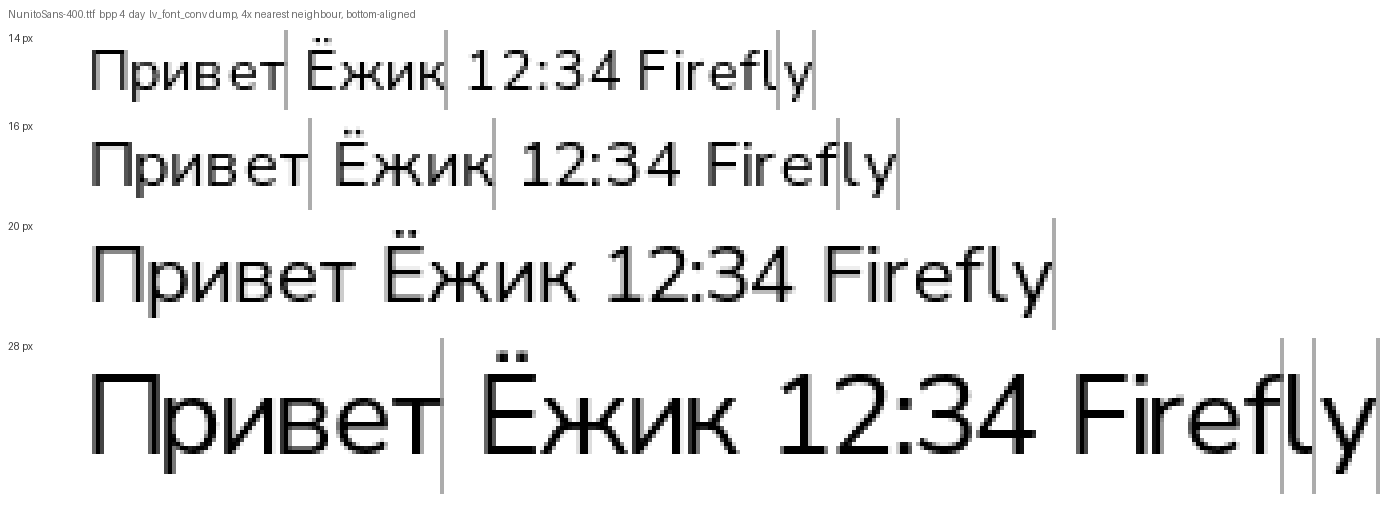
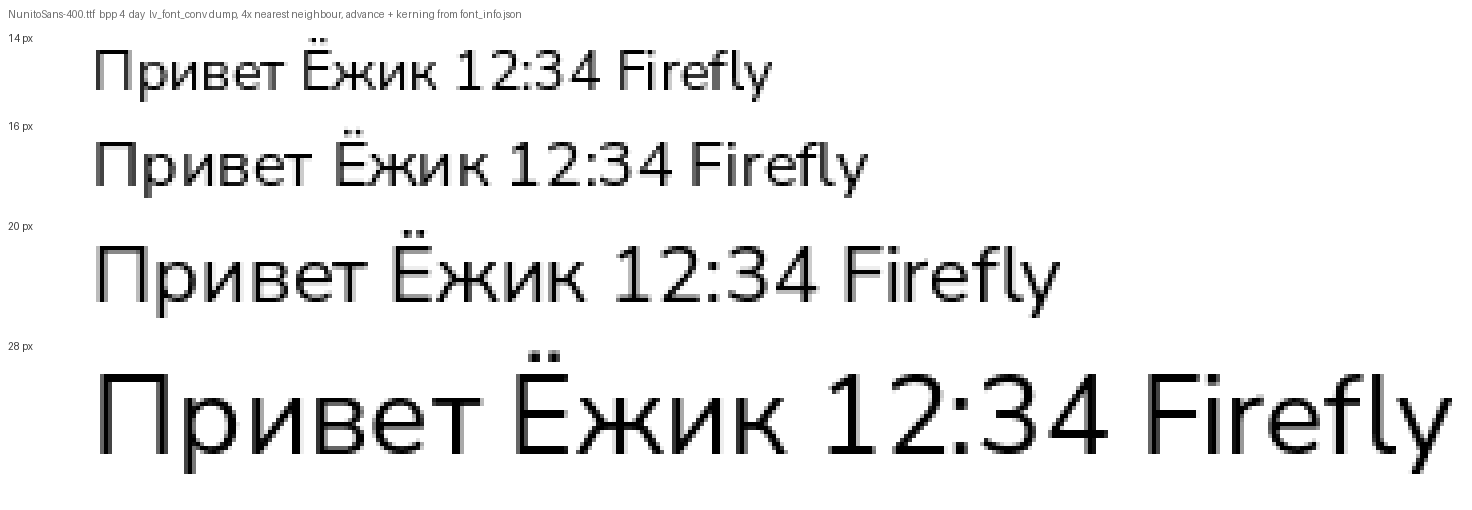
The bars in the specimens were the tool's ruler, not the font
Four contact sheets went into T-032 with vertical grey bars through them.
They are not in either font. lv_font_conv's dump writer colours every pixel
outside the advance width pink -- (255, 127, 184) -- so a glyph whose ink
overhangs its advance carries a full-height pink column, and reading the PNG
with convert("L") turns that annotation into mid-grey ink. Nunito Sans has
four such glyphs in one test string.

Both dump colours have red = 255, so the red channel is exactly 255 - coverage
for every pixel. Reading it drops the annotation and touches no coverage.

While the layout was wrong anyway: the dump crops each PNG to the ink bounding
box, so butting tiles together with a 1 px gap threw away the side bearings and
showed spacing the firmware will never draw. The sheets now advance by the real
advance width, apply the real kerning, and sit on the dump's own baseline --
all read from the font_info.json written beside the images.

That produced a number D16 needs and the byte counts do not carry: at the same
--size, Nunito Sans wants 2-4 px more line height than Inter and draws a
slightly smaller letter. The two families are not comparable at equal size.

All four sheets regenerated and looked at, day and night, this time before
committing rather than after.

diff --git a/tools/font/contact_sheet.py b/tools/font/contact_sheet.py
@@ -4,7 +4,9 @@ Final section 51 asks for legibility verified "at actual pixel sizes". A font
 specimen from a foundry is rendered by a desktop rasteriser at a size nobody
 ships; what reaches the wrist is lv_font_conv's own 1/2/4-bpp bitmap. So this
 uses lv_font_conv's `dump` format -- the same rasterisation the firmware gets --
-and tiles it into one image a person can look at.
+and lays it out with the same metrics the firmware will: advance width, left
+side bearing and kerning, all read from the `font_info.json` the dump writes
+beside the images.
 
 Nearest-neighbour zoom, never smooth: the question is what the pixels are, and
 a smoothing filter answers a different one.
@@ -13,7 +15,7 @@ Usage:
   python3 tools/font/contact_sheet.py --font F.ttf --lv-font-conv PATH \\
       --sizes 14,16,20 --bpp 4 --text "Привет Firefly 12:34" --out sheet.png
 """
-import argparse, os, subprocess, tempfile
+import argparse, json, math, os, subprocess, tempfile
 from PIL import Image, ImageChops, ImageDraw
 
 ZOOM = 4
@@ -31,40 +33,85 @@ def dump_glyphs(conv, font, size, bpp, text, workdir):
     return out
 
 
-def row_for(conv, font, size, bpp, text, workdir):
-    """One rendered line of `text`, laid out in codepoint order of the string."""
-    d = dump_glyphs(conv, font, size, bpp, text, workdir)
-    tiles = []
-    for ch in text:
-        if ch == " ":
-            tiles.append(None)
-            continue
-        # lv_font_conv names the dump files by lowercase hex codepoint, no
-        # padding and no "U+" -- 41f.png, not U+041F.png.
-        path = os.path.join(d, f"{ord(ch):x}.png")
-        if not os.path.exists(path):
-            raise RuntimeError(f"no glyph rendered for U+{ord(ch):04X} {ch!r} at {size} px")
-        # The dump PNGs are RGBA with a constant-255 alpha and the coverage in
-        # the colour channels, so the alpha channel is not the glyph -- reading
-        # it gives solid rectangles. Luminance is the glyph.
-        tiles.append(Image.open(path).convert("L"))
+def coverage(path):
+    """The glyph's ink as 8-bit ink-on-paper, with the dump's annotation removed.
 
-    space = max(2, size // 3)
-    width = sum(space if t is None else t.width + 1 for t in tiles)
-    height = max(t.height for t in tiles if t is not None)
-    # 255, not 0: the dump is dark ink on light paper, so the gaps between
-    # words have to be paper too. Filling with 0 leaves black gaps that turn
-    # into bright bars the moment the night sheet inverts the row.
-    row = Image.new("L", (max(width, 1), height), 255)
-    x = 0
-    for t in tiles:
-        if t is None:
-            x += space
+    lv_font_conv's dump writer (lib/writers/dump.js) stores each pixel as
+    `(255 - value) * colour / 255`, where `colour` is white inside the advance
+    width and the typo ascent/descent band, and PINK -- (255, 127, 184) -- for
+    every pixel outside it. A glyph whose bounding box overhangs its advance
+    therefore gets a full-height pink column, and `convert("L")` reads that
+    column as mid-grey ink: a bar through the specimen that is not in the font.
+
+    Both colours have red = 255, so the red channel is exactly `255 - value`
+    for every pixel of every glyph. Take it, and the annotation disappears
+    without touching a single pixel of coverage.
+    """
+    return Image.open(path).convert("RGB").split()[0]
+
+
+def row_for(conv, font, size, bpp, text, workdir):
+    """One line of `text`, laid out the way LVGL will lay it out.
+
+    Not a row of tiles with a gap between them. The dump crops each PNG to the
+    ink bounding box, so pasting them end to end throws away the side bearings
+    and reports spacing the firmware will never draw -- and letter spacing is
+    half of whether 14 px Cyrillic is readable at all. Advance width, left side
+    bearing and kerning all come out of font_info.json.
+    """
+    d = dump_glyphs(conv, font, size, bpp, text, workdir)
+    info = json.load(open(os.path.join(d, "font_info.json"), encoding="utf-8"))
+    glyphs = {g["code"]: g for g in info["glyphs"]}
+    typo_asc, typo_desc = info["typoAscent"], info["typoDescent"]
+
+    # The dump's PNG spans y = max(bbox top, typoAscent) down to
+    # y = min(bbox bottom, typoDescent), so every glyph inside the typo band is
+    # already the same height and aligned on the same baseline. Glyphs that
+    # exceed it -- an accented capital at a small size -- make the row taller,
+    # which is why the extent is computed rather than assumed.
+    top = typo_asc
+    bottom = typo_desc
+    for ch in text:
+        g = glyphs.get(ord(ch))
+        if g is None or g["bbox"]["width"] == 0:
             continue
-        # Bottom-align: the dump has no baseline, so this is a legibility
-        # sheet and not a metrics proof. It says so on the image.
-        row.paste(t, (x, height - t.height))
-        x += t.width + 1
+        b = g["bbox"]
+        top = max(top, b["y"] + b["height"] - 1)
+        bottom = min(bottom, b["y"])
+    height = top - bottom + 1
+
+    placed = []          # (x, y, tile)
+    pen = 0.0            # fractional, because adv_w is fractional in the font
+    for i, ch in enumerate(text):
+        g = glyphs.get(ord(ch))
+        if g is None:
+            raise RuntimeError(f"no glyph rendered for U+{ord(ch):04X} {ch!r} at {size} px")
+        b = g["bbox"]
+        if b["width"] > 0:
+            path = os.path.join(d, f"{ord(ch):x}.png")
+            if not os.path.exists(path):
+                raise RuntimeError(f"font_info has U+{ord(ch):04X} but {path} is missing")
+            tile = coverage(path)
+            glyph_top = max(b["y"] + b["height"] - 1, typo_asc)
+            placed.append((int(round(pen)) + b["x"], top - glyph_top, tile))
+        pen += g["advanceWidth"]
+        if i + 1 < len(text):
+            # Kerning is keyed by the *next* codepoint, in pixels, and it is
+            # fractional. LVGL applies it; a specimen that does not is a
+            # specimen of a font nobody ships.
+            pen += g.get("kerning", {}).get(str(ord(text[i + 1])), 0.0)
+
+    width = max([math.ceil(pen)] + [x + t.width for x, _y, t in placed] + [1])
+    # 255, not 0: the dump is dark ink on light paper, so the space between
+    # words has to be paper too. Filling with 0 leaves black gaps that turn
+    # into bright bars the moment the night sheet inverts the row.
+    row = Image.new("L", (width, height), 255)
+    for x, y, tile in placed:
+        # Darken rather than paste: side bearings can be negative and two
+        # glyphs can legitimately overlap, and a paste would rub out the ink
+        # of the one underneath.
+        box = (x, y, x + tile.width, y + tile.height)
+        row.paste(ImageChops.darker(row.crop(box), tile), box)
     return row
 
 
@@ -90,14 +137,18 @@ def main():
     # stroke that survives one does not automatically survive the other.
     if a.theme == "night":
         rows = [(s, ImageChops.invert(r)) for s, r in rows]
-    paper, label, sub = (255, 60, 110) if a.theme == "day" else (16, 200, 150)
+    # Night paper is 0, not a dark grey: the row itself inverts to 0, and a
+    # page one shade off it would frame every line in a rectangle that is an
+    # artefact of this script rather than anything the panel does.
+    paper, label, sub = (255, 60, 110) if a.theme == "day" else (0, 190, 140)
 
     W = LABEL_W + PAD * 2 + max(r.width for _s, r in rows) * ZOOM
     H = PAD * 2 + sum(r.height * ZOOM + PAD for _s, r in rows) + 22
     sheet = Image.new("L", (W, H), paper)
     draw = ImageDraw.Draw(sheet)
     draw.text((PAD, PAD), f"{os.path.basename(a.font)}  bpp {a.bpp}  {a.theme}  "
-                          f"lv_font_conv dump, {ZOOM}x nearest neighbour, bottom-aligned", fill=sub)
+                          f"lv_font_conv dump, {ZOOM}x nearest neighbour, "
+                          f"advance + kerning from font_info.json", fill=sub)
 
     y = PAD + 22
     for size, row in rows:

diff --git a/docs/research/FONT_MEASUREMENTS.md b/docs/research/FONT_MEASUREMENTS.md
@@ -60,7 +60,7 @@ arguably icons — rotatable, scalable, owned by the image pipeline (T-034) —
 rather than text glyphs. But it is a decision, not an oversight, and it belongs
 to whoever picks the font.
 
-## Two traps found by running the pipeline rather than reading about it
+## Three traps found by running the pipeline rather than reading about it
 
 ### 1. The default instance is not the weight you think
 
@@ -101,6 +101,28 @@ when the requested location is already the default**, and says so out loud.
 Note also that Nunito Sans's kerning is a **fixed 5 236 bytes at every size** —
 at 14 px bpp 1 that is 64 % of the entire font (8 225 B with, 2 989 B without).
 Kerning is not a rounding error in an embedded font; it is a budget line.
+
+### 3. The dump's luminance is not the glyph's coverage
+
+`lv_font_conv --format dump` writes one PNG per glyph, and those PNGs are the
+only way to see what the firmware will actually draw. They are not plain
+greyscale. `lib/writers/dump.js` stores every pixel as
+`(255 - value) * colour / 255`, where `colour` is white inside the advance width
+and the typo ascent/descent band and **pink — (255, 127, 184) — outside it**.
+
+A glyph whose ink overhangs its advance therefore carries a full-height pink
+column. Read the file with `convert("L")` and that column becomes mid-grey ink:
+a vertical bar down the specimen that exists in no font. The first four sheets
+generated here had them — Nunito Sans's `к`, `т`, `l` and `y` all overhang, so
+its sheet had six.
+
+Both colours have red = 255, so `255 - value` **is** the red channel, for every
+pixel of every glyph. The specimen script reads that channel and the annotation
+disappears without a single pixel of coverage being touched.
+
+The general shape of the mistake is worth more than the fix: a tool's debug
+output is drawn for a human, and a human-facing rendering may carry marks that
+are about the glyph rather than in it.
 
 ## Generated size
 
@@ -166,10 +188,32 @@ other.
 | Inter | [14/16/20/28 px](../ui/specimens/sheet-Inter-400-day.png) | [14/16/20/28 px](../ui/specimens/sheet-Inter-400-night.png) |
 | Nunito Sans | [14/16/20/28 px](../ui/specimens/sheet-NunitoSans-400-day.png) | [14/16/20/28 px](../ui/specimens/sheet-NunitoSans-400-night.png) |
 
+The lines are laid out with the metrics the firmware will use, not with the
+tiles butted together: advance width, left side bearing and kerning all come out
+of the `font_info.json` written beside the dump. Letter spacing is half of
+whether 14 px Cyrillic is readable, so a specimen that invents its own spacing
+answers a question nobody asked. The vertical alignment is the dump's own — each
+PNG spans the typo ascent/descent band, so the glyphs sit on a common baseline.
+
 Both render Cyrillic legibly at 14 px at bpp 4, including the Ё diaeresis, which
-is the first thing to collapse. The sheets are bottom-aligned rather than
-baseline-aligned — they are a legibility check, not a metrics proof, and the
-image says so on itself.
+is the first thing to collapse.
+
+**One size is not one size.** MEASURED from the same `font_info.json`, in
+pixels, at the same `--size`:
+
+| Font | 14 px | 16 px | 20 px | 28 px |
+|---|---:|---:|---:|---:|
+| Inter — ascent … descent | 14 … −3 | 15 … −3 | 19 … −4 | 27 … −6 |
+| Inter — **line band** (typo asc − desc + gap) | **17** | **20** | **24** | **34** |
+| Nunito Sans — ascent … descent | 13 … −3 | 15 … −3 | 18 … −4 | 26 … −5 |
+| Nunito Sans — **line band** | **19** | **22** | **27** | **38** |
+
+Nunito Sans asks for 2–4 px more vertical room per line and draws a slightly
+smaller letter while doing it — 12 % more line height at 28 px, on a screen
+240 px tall. So the two families cannot be compared at equal `--size`: matching
+apparent size means Nunito Sans at a larger number, which moves every figure in
+the size table above with it. That is a fact the D16 decision needs and the byte
+counts alone do not carry.
 
 ## Not measured
 

diff --git a/docs/research/OPEN_QUESTIONS.md b/docs/research/OPEN_QUESTIONS.md
@@ -92,7 +92,7 @@ proceed; hardware work does not.
 | D13 | Waveshare: which loads sit on ALDO1, ALDO2 and ALDO3 — all three are 3.3 V — and **what runs on the 1.8 V ALDO4 rail**? | UNKNOWN | read the schematic sheets visually |
 | D14 | Waveshare SD card: the BSP uses SDMMC 1-bit on GPIO 1/2/3, but the schematic labels those nets `MOSI`/`SCK`/`MISO` and shows a chip-select near GPIO 17. Which mode is the board actually wired for? | UNKNOWN | schematic sheet + BSP source |
 | D15 | **What is the T-Watch panel's physical diagonal — 1.3" or 1.54"?** 240 × 240 is certain; the size is not. LilyGoLib's spec tables say 1.3 Inch for the S3 *and* the S3 Plus; the schematic's LCD sheet says `QT154C2408` / `LCD_1.54-TOUCH`, and that vendor's sibling part `QT154H2201` is specified as 1.54", 240×240, ST7789V — so the `154` field decodes. It decides dpi (261 vs 220) and therefore every physical-size conversion in the design system | **CONFLICTING** | a ruler on a physical unit (rides on A1), or the `QT154C2408` specification itself, which is not published anywhere reachable. Working value is 1.3", chosen as the conservative direction — [HARDWARE_MATRIX](HARDWARE_MATRIX.md#display-diagonal--conflicting) |
-| D16 | **Which font — Inter or Nunito Sans — and what happens to the arrows?** A design decision, not a research gap: the numbers exist ([FONT_MEASUREMENTS](FONT_MEASUREMENTS.md)). What makes it a decision rather than a preference is that Nunito Sans has **no** U+2190–U+2193, so choosing it also chooses to make arrows icons in the image pipeline (T-034); and that its variable default is ExtraLight, so "use Nunito Sans" has to name a weight | **needs the owner** | the owner's design boards name both. Blocks nothing in M1 — the pipeline works for either — but it blocks freezing the design tokens (T-009) |
+| D16 | **Which font — Inter or Nunito Sans — and what happens to the arrows?** A design decision, not a research gap: the numbers exist ([FONT_MEASUREMENTS](FONT_MEASUREMENTS.md)). What makes it a decision rather than a preference is that Nunito Sans has **no** U+2190–U+2193, so choosing it also chooses to make arrows icons in the image pipeline (T-034); and that its variable default is ExtraLight, so "use Nunito Sans" has to name a weight. A third input, MEASURED since: at the same `--size` Nunito Sans asks for 2–4 px more line height and draws a slightly smaller letter, so the two are not comparable at equal size and every byte figure moves with the size that matches | **needs the owner** | the owner's design boards name both. Blocks nothing in M1 — the pipeline works for either — but it blocks freezing the design tokens (T-009) |
 | D17 | **Render performance of the generated fonts.** Final §51 asks for it; licence, coverage, legibility and size are answered and this one is not | **UNKNOWN** | the simulator driving timed frames, or a board. Not guessed |
 | D11 | Which AXP2101 rail is the schematic's net `LDO5`? It feeds DRV2605 `EN`, and the vendor rail map says BLDO2 — consistent but not proven | UNKNOWN | PMU register read on hardware |
 

diff --git a/tools/font/README.md b/tools/font/README.md
@@ -10,7 +10,7 @@ draw".
 | [`check_coverage.py`](check_coverage.py) | does this font file have a glyph for every one of them? The check that eliminates a font |
 | [`instantiate.py`](instantiate.py) | pin a variable font to one weight — and refuse to rewrite it when it is already at that weight |
 | [`measure.py`](measure.py) | generate, compile for ESP32-S3, and report `.rodata`. The flash cost, measured |
-| [`contact_sheet.py`](contact_sheet.py) | render the glyphs LVGL will actually draw, at the size it will draw them, in both themes |
+| [`contact_sheet.py`](contact_sheet.py) | render the glyphs LVGL will actually draw, at the size it will draw them, with the advance, side bearings and kerning it will use, in both themes |
 
 Results: [FONT_MEASUREMENTS](../../docs/research/FONT_MEASUREMENTS.md).
 
